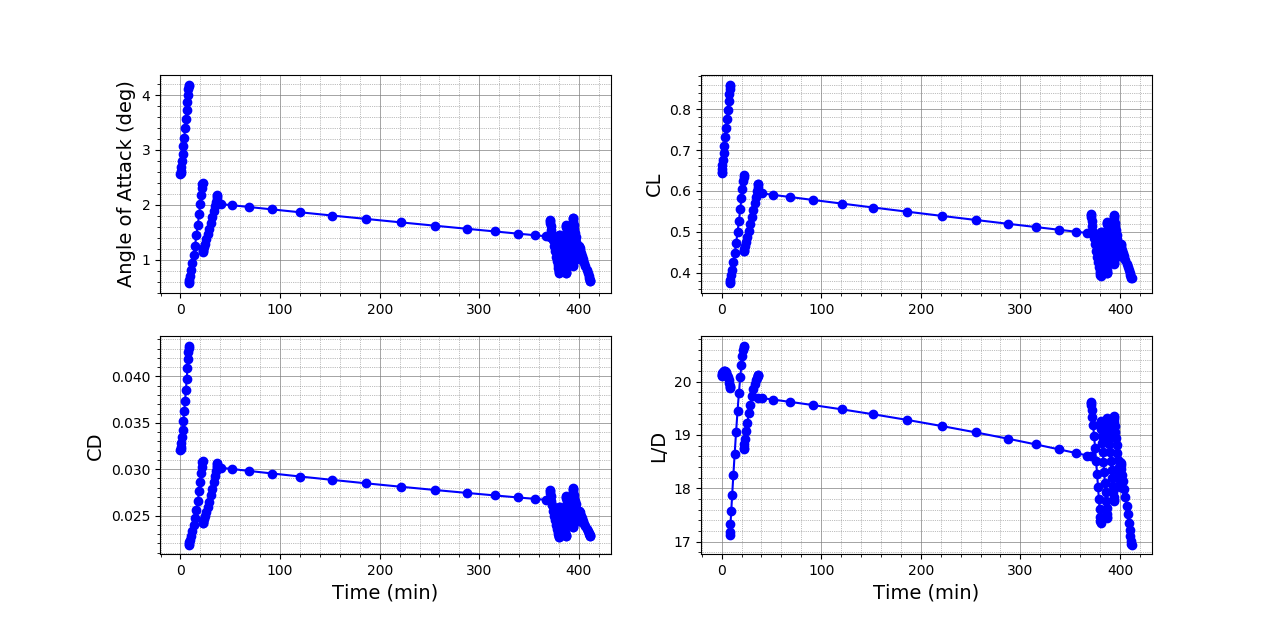
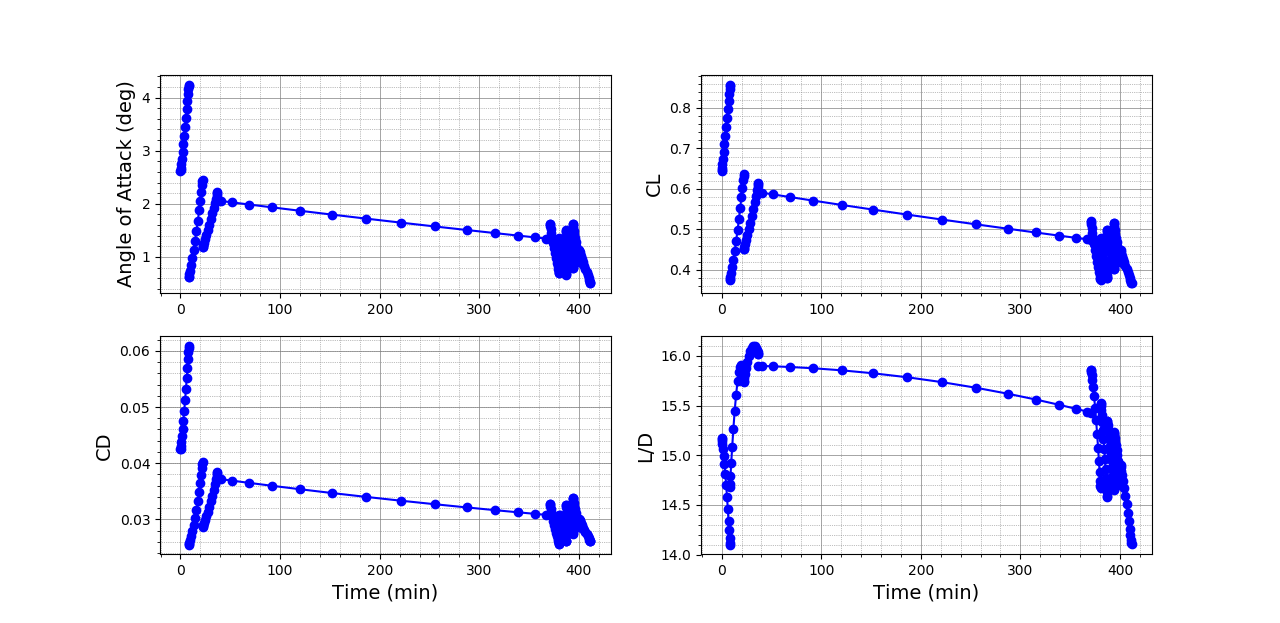
Updated results and html files for tutorials

diff --git a/tutorials/bwb.html b/tutorials/bwb.html
@@ -85,7 +85,7 @@
 
 <p>Here we see how to construct multi-segment wings. With multiple segments we can build more complex shapes such as cranks, yehudis, and winglets. We also show how to specify an airfoil on the wing or on a wing segment. If an airfoil is not specified, it will default to a symmertic airfoil.</p>
 
-<p>This BWB is broken down into 7 segments. We first specify the top level parameters of the wing and then add each segment sequentially as shown below.</p>
+<p>This BWB is broken down into 7 segments. We first specify the top level parameters of the wing and then add each segment sequentially as shown below. This is also done for the tip section.</p>
 
 <div class="highlight_code"><div class="highlight_code"><pre class="highlight_code"><code>
 
@@ -104,13 +104,13 @@
     wing.spans.projected         = 289.0 * Units.feet    
     wing.chords.root             = 145.0 * Units.feet
     wing.chords.tip              = 3.5   * Units.feet
-    wing.chords.mean_aerodynamic = 86.   * Units.feet
-    wing.areas.reference         = 15680. * Units.feet**2   
+    wing.chords.mean_aerodynamic = 80. * Units.feet
+    wing.areas.reference         = 7840. * 2 * Units.feet**2
     wing.sweeps.quarter_chord    = 33. * Units.degrees
     wing.twists.root             = 0.0 * Units.degrees
     wing.twists.tip              = 0.0 * Units.degrees
     wing.dihedral                = 2.5 * Units.degrees
-    wing.origin                  = [0.,0.,0]
+    wing.origin                  = [[0.,0.,0]]
     wing.aerodynamic_center      = [0,0,0] 
     wing.vertical                = False
     wing.symmetric               = True
@@ -123,7 +123,7 @@
     segment.twist                 = 0. * Units.deg
     segment.root_chord_percent    = 1.
     segment.dihedral_outboard     = 0. * Units.degrees
-    segment.sweeps.quarter_chord  = 30.0 * Units.degrees
+    segment.sweeps.quarter_chord  = 40.0 * Units.degrees
     segment.thickness_to_chord    = 0.165 
     wing.Segments.append(segment)    
     
@@ -186,13 +186,23 @@
     segment.sweeps.quarter_chord  = 55. * Units.degrees
     segment.thickness_to_chord    = 0.10
     wing.Segments.append(segment)      
-
-    # add to vehicle
+	
+	segment = SUAVE.Components.Wings.Segment()
+    segment.tag                   = 'tip'
+    segment.percent_span_location = 1
+    segment.twist                 = 0. * Units.deg
+    segment.root_chord_percent    = 0.0241
+    segment.dihedral_outboard     = 0. * Units.degrees
+    segment.sweeps.quarter_chord  = 0. * Units.degrees
+    segment.thickness_to_chord    = 0.10
+    wing.Segments.append(segment)  
+	
+	# add to vehicle
     vehicle.append_component(wing)
 
 </code></pre></div></div>
 
-<p>Once we build the vehicle we can write the OpenVSP file. If there are multiple configurations then you will need multiple writes to OpenVSP. We highly suggest you only have one configuration when possible to minimize computational costs. Also note that while the tip section was not defined here (meaning the top level tip values were used), it can also be added with <code class="highlighter-rouge">segment.percent_span_location = 1.</code>.</p>
+<p>Once we build the vehicle we can write the OpenVSP file. If there are multiple configurations then you will need multiple writes to OpenVSP. We highly suggest you only have one configuration when possible to minimize computational costs.</code>.</p>
 
 <div class="highlight_code"><div class="highlight_code"><pre class="highlight_code"><code>
 # ----------------------------------------------------------------------
@@ -213,8 +223,6 @@ def configs_setup(vehicle):
     
     write(vehicle,base_config.tag) 
 
-
-    # done!
     return configs
 
 </code></pre></div></div>
@@ -240,7 +248,10 @@ def configs_setup(vehicle):
     #aerodynamics.process.compute.lift.inviscid.settings.processors = 12  
     #aerodynamics.process.compute.lift.inviscid.training_file       = 'base_data_1500.txt'
     aerodynamics.process.compute.lift.inviscid.settings.maximum_iterations = 10
-    aerodynamics.settings.drag_coefficient_increment = 0.0000
+    
+	aerodynamics.settings.drag_coefficient_increment = 0.0000
+	aerodynamics.settings.half_mesh_flag             = False
+    aerodynamics.settings.span_efficiency            = 0.85
     
     aerodynamics.process.compute.lift.inviscid.training.Mach             = np.array([.3, .5, .7, .85]) 
     aerodynamics.process.compute.lift.inviscid.training.angle_of_attack  = np.array([0.,3.,6.]) * Units.deg    

diff --git a/tutorials/solar_optimization.html b/tutorials/solar_optimization.html
@@ -79,20 +79,20 @@
 
 <p>Let’s pose the optimization problem first and then setup the rest. We start with the <em>Nexus</em> first as usual. With this design problem there are things you are uncertain of and want to solve for.</p>
 
-<p>You’re not sure if you really need any solar panels on the airplane, so to start there will be none. The solar ratio is the ratio of wing area to solar area. A value of 1 would the whole top of the wing covered with solar panels.</p>
+<p>You’re not sure if you really need any solar panels on the airplane, so to start there will be none. The solar ratio is the ratio of wing area to solar area. A value of 1 would indicate that the entire top of the wing is covered with solar panels.</p>
 
 <div class="highlight_code"><div class="highlight_code"><pre class="highlight_code"><code>
-	  # [ tag , initial, [lb,ub], scaling, units ]
+    # [ tag , initial, [lb,ub], scaling, units ]
     problem.inputs = np.array([
-        [ 'wing_area'       ,   0.5, (  0.1,    1.5 ),    0.5, Units.meter      ],
-        [ 'aspect_ratio'    ,  10.0, (  5.0,   20.0 ),   10.0, Units.less       ], 
-        [ 'dynamic_pressure', 125.0, (  1.0, 2000.0 ),  125.0, Units.pascals    ], 
-        [ 'solar_ratio'     ,   0.0, (  0.0,    0.97),    1.0, Units.less       ], 
-        [ 'kv'              , 800.0, ( 10.0, 1500.0 ),  800.0, Units['rpm/volt']], 
+        [ 'wing_area'       ,   0.62, (  0.1,    1.5 ),    0.5, Units.meter      ],
+        [ 'aspect_ratio'    ,   13.5, (  5.0,   20.0 ),   10.0, Units.less       ], 
+        [ 'dynamic_pressure',  115.0, (  1.0, 2000.0 ),  125.0, Units.pascals    ], 
+        [ 'solar_ratio'     ,    0.0, (  0.0,    0.97),    1.0, Units.less       ], 
+        [ 'kv'              ,  900.0, ( 10.0, 1500.0 ),  800.0, Units['rpm/volt']], 
     ])
 </code></pre></div></div>
 
-<p>Next come the constraints. The first constraint is that the battery energy can never go negative, the math behind this will be elaborated on later. The next constraint is that the plane must have a battery. Finally there are limits to coefficients of lift and throttle settings.</p>
+<p>Next come the constraints. The first constraint is that the battery energy can never go negative; the math behind this will be elaborated on later. The next constraint is that the plane must have a battery. Finally there are limits to coefficients of lift and throttle settings.</p>
 
 <div class="highlight_code"><div class="highlight_code"><pre class="highlight_code"><code>
       # [ tag, sense, edge, scaling, units ]
@@ -118,10 +118,10 @@
 
 <h3 id="vehiclespy">Vehicles.py:</h3>
 
-<p>Next, you will setup the vehicle. This is very similar to the prior Solar UAV tutorial. So we will gloss over this, the one noticeable difference is that a lower fidelity energy network is used. This means that most components operate with prescribed efficiencies. For example:</p>
+<p>Next, you will setup the vehicle. This is very similar to the prior Solar UAV tutorial, so we will gloss over this. The one noticeable difference is that a lower fidelity energy network is used. This means that most components operate with prescribed efficiencies. For example:</p>
 
 <div class="highlight_code"><div class="highlight_code"><pre class="highlight_code"><code>
-    # Component 4 the Motor
+    # Component 5 the Motor
     motor = SUAVE.Components.Energy.Converters.Motor_Lo_Fid()
     kv                         = 800. * Units['rpm/volt'] # RPM/volt is standard
     motor                      = size_from_kv(motor, kv)    

diff --git a/tutorials/Concorde.html b/tutorials/Concorde.html
@@ -89,7 +89,7 @@
 </pre></code><p></p>
 									<p>In the SUAVE code structure, the analysis is broken into two sections. One is what you see above, which is the analysis class. The other is the individual methods that are used in the analysis class, which are stored in separate Methods folders. The purpose of splitting them is to make it easier for the different analysis classes to share methods. We will start with an explanation of the individual bits of the analysis class in the file trunk/Analyses/Aerodynamics/Fidelity_Zero.py.</p>
 
-<p>The first section is the imports. These are mix of standard imports and a few specific items needed for the analysis. They are described individually as they appear in the body of the class. The first function in the fidelity zero class is __defaults__. This contains the primary functionality as it sets the default settings and the methods that will be used to compute aerodynamics.</p>
+<p>The first section is the imports. These are mix of standard imports and a few specific items needed for the analysis. They are described individually as they appear in the body of the class. The first function in the fidelity zero class is __defaults__. This contains the primary functionality, as it sets the default settings and the methods that will be used to compute aerodynamics.</p>
 
 <p>The settings begin as below:</p>
 
@@ -153,7 +153,7 @@ settings.fuselage_parasite_drag_end_blend_mach   = 0.99
 
 <p>New files must also be created for the supersonic methods folder structure, which can be found as trunk/Methods/Aerodynamics/Supersonic_Zero/__init__.py, trunk/Methods/Aerodynamics/Supersonic_Zero/Lift/__init__.py, and trunk/Methods/Aerodynamics/Supersonic_Zero/Lift/__init__.py.</p>
 
-<p>Once all of the files are ready, a couple modifications are needed in the vehicle and analysis setup. These can be seen the tut_concorde.py tutorial file. First, to switch the analysis type used, we replace</p>
+<p>Once all of the files are ready, a couple of modifications are needed in the vehicle and analysis setup. These can be seen the tut_concorde.py tutorial file. First, to switch the analysis type used, we replace</p>
 
 <div class="highlight_code"><div class="highlight_code"><pre class="highlight_code"><code class="language-python">aerodynamics = SUAVE.Analyses.Aerodynamics.Fidelity_Zero()</div></div></pre></code><p></p>
 

diff --git a/tutorials/avl.html b/tutorials/avl.html
@@ -88,7 +88,7 @@ mission. Run it in your IDE. If using the command line use the command.</li>
 
 <div class="highlight_code"><div class="highlight_code"><pre class="highlight_code"><code> python tut_mission_B737_800_AVL.py  </code></pre></div></div>
 
-<p>It is very simple to interchange analysis tools in SUAVE. AVL is no exception. To study an aircraft in SUAVE using AVL, simply change the two lines in the analysis_set up shown below form Fidelity_Zero (SUAVE’s first order approximation method) to AVL.</p>
+<p>It is very simple to interchange analysis tools in SUAVE. AVL is no exception. To study an aircraft in SUAVE using AVL, simply change the two lines in the analysis_set up shown below from Fidelity_Zero (SUAVE’s first order approximation method) to AVL.</p>
 
 <p>Replace line 109</p>
 <div class="highlight_code"><div class="highlight_code"><pre class="highlight_code"><code> aerodynamics = SUAVE.Analyses.Aerodynamics.Fidelity_Zero() </code></pre></div></div>
